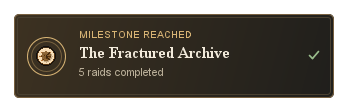
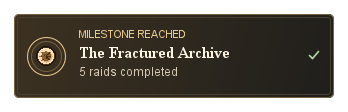
Block overlay click-through and improve text readability

Changed region(s): [[0.2299, 0.2679, 0.546, 0.3482], [0.2299, 0.5893, 0.5172, 0.6964], [0.1149, 0.3214, 0.1437, 0.3482]]

diff --git a/src/test/java/com/grindstone/overlay/ProgressOverlayMouseListenerTest.java b/src/test/java/com/grindstone/overlay/ProgressOverlayMouseListenerTest.java
@@ -1,0 +1,96 @@
+package com.grindstone.overlay;
+
+import com.grindstone.config.GrindstoneConfig;
+import com.grindstone.repository.RepeatSchedule;
+import com.grindstone.ui.Icon;
+import java.awt.Canvas;
+import java.awt.Dimension;
+import java.awt.Graphics2D;
+import java.awt.Rectangle;
+import java.awt.event.InputEvent;
+import java.awt.event.MouseEvent;
+import java.awt.image.BufferedImage;
+import java.util.List;
+import org.junit.Test;
+import static org.junit.Assert.assertFalse;
+import static org.junit.Assert.assertTrue;
+
+/**
+ * @author Ayman Yassen
+ * @see <a href="https://discord.gg/l.e.g.e.n.d.a.r.y">Discord</a>
+ * @since 11/11/2026
+ */
+public class ProgressOverlayMouseListenerTest {
+    private final Canvas canvas = new Canvas();
+    private final GrindstoneProgressOverlay overlay = new GrindstoneProgressOverlay(new GrindstoneConfig() {
+        @Override
+        public boolean progressOverlayEnabled() {
+            return true;
+        }
+    });
+    private final ProgressOverlayMouseListener listener = new ProgressOverlayMouseListener(overlay);
+
+    private void showOverlay() {
+        overlay.update(List.of(new ProgressOverlayEntry("Amoxliatl", RepeatSchedule.DAILY, 0, 100, false, true, true, Icon.BOSSING.getImage())), 720);
+        Graphics2D graphics = new BufferedImage(300, 300, BufferedImage.TYPE_INT_ARGB).createGraphics();
+        Dimension size;
+        try {
+            size = overlay.render(graphics);
+        } finally {
+            graphics.dispose();
+        }
+        overlay.setBounds(new Rectangle(50, 50, size.width, size.height));
+        overlay.endFrame();
+        listener.setActive(true);
+    }
+
+    private MouseEvent event(int type, int x, int y, int button, boolean alt) {
+        return new MouseEvent(canvas, type, 1, alt ? InputEvent.ALT_DOWN_MASK : 0, x, y, 1, false, button);
+    }
+
+    @Test
+    public void blocksClicksAndCapturedGesturesForEachMouseButton() {
+        showOverlay();
+        for (int button : new int[]{MouseEvent.BUTTON1, MouseEvent.BUTTON2, MouseEvent.BUTTON3}) {
+            assertTrue(listener.mousePressed(event(MouseEvent.MOUSE_PRESSED, 60, 60, button, false)).isConsumed());
+            assertTrue(listener.mouseDragged(event(MouseEvent.MOUSE_DRAGGED, 400, 400, MouseEvent.NOBUTTON, false)).isConsumed());
+            assertTrue(listener.mouseReleased(event(MouseEvent.MOUSE_RELEASED, 400, 400, button, false)).isConsumed());
+            assertTrue(listener.mouseClicked(event(MouseEvent.MOUSE_CLICKED, 400, 400, button, false)).isConsumed());
+            assertFalse(listener.mousePressed(event(MouseEvent.MOUSE_PRESSED, 400, 400, button, false)).isConsumed());
+            assertFalse(listener.mouseReleased(event(MouseEvent.MOUSE_RELEASED, 400, 400, button, false)).isConsumed());
+        }
+    }
+
+    @Test
+    public void allowsRuneLiteAltDragging() {
+        showOverlay();
+        assertFalse(listener.mousePressed(event(MouseEvent.MOUSE_PRESSED, 60, 60, MouseEvent.BUTTON1, true)).isConsumed());
+        assertFalse(listener.mouseDragged(event(MouseEvent.MOUSE_DRAGGED, 80, 80, MouseEvent.NOBUTTON, true)).isConsumed());
+        assertFalse(listener.mouseReleased(event(MouseEvent.MOUSE_RELEASED, 80, 80, MouseEvent.BUTTON1, true)).isConsumed());
+        assertFalse(listener.mouseClicked(event(MouseEvent.MOUSE_CLICKED, 80, 80, MouseEvent.BUTTON1, true)).isConsumed());
+    }
+
+    @Test
+    public void ignoresHiddenEmptyAndClearedOverlays() {
+        showOverlay();
+        overlay.endFrame();
+        assertFalse(listener.mousePressed(event(MouseEvent.MOUSE_PRESSED, 60, 60, MouseEvent.BUTTON1, false)).isConsumed());
+        showOverlay();
+        overlay.update(List.of(), 720);
+        assertFalse(listener.mousePressed(event(MouseEvent.MOUSE_PRESSED, 60, 60, MouseEvent.BUTTON1, false)).isConsumed());
+        showOverlay();
+        overlay.clear();
+        assertFalse(listener.mousePressed(event(MouseEvent.MOUSE_PRESSED, 60, 60, MouseEvent.BUTTON1, false)).isConsumed());
+    }
+
+    @Test
+    public void stoppingReleasesCapturedInputAndRestartingStartsFresh() {
+        showOverlay();
+        assertTrue(listener.mousePressed(event(MouseEvent.MOUSE_PRESSED, 60, 60, MouseEvent.BUTTON1, false)).isConsumed());
+        listener.setActive(false);
+        assertFalse(listener.mouseReleased(event(MouseEvent.MOUSE_RELEASED, 60, 60, MouseEvent.BUTTON1, false)).isConsumed());
+        assertFalse(listener.mouseClicked(event(MouseEvent.MOUSE_CLICKED, 60, 60, MouseEvent.BUTTON1, false)).isConsumed());
+        listener.setActive(true);
+        assertFalse(listener.mouseDragged(event(MouseEvent.MOUSE_DRAGGED, 400, 400, MouseEvent.NOBUTTON, false)).isConsumed());
+    }
+}

diff --git a/src/main/java/com/grindstone/GrindstonePlugin.java b/src/main/java/com/grindstone/GrindstonePlugin.java
@@ -3,6 +3,7 @@ package com.grindstone;
 import com.google.gson.JsonObject;
 import com.google.inject.Provides;
 import com.grindstone.config.GrindstoneConfig;
+import com.grindstone.overlay.ProgressOverlayMouseListener;
 import com.grindstone.content.collectionlog.CollectionLogPages;
 import com.grindstone.content.collectionlog.CollectionLogHistory;
 import com.grindstone.content.combatachievement.CombatAchievementData;
@@ -90,10 +91,12 @@ import net.runelite.client.eventbus.Subscribe;
 import net.runelite.client.events.ClientShutdown;
 import net.runelite.client.events.ConfigChanged;
 import net.runelite.client.game.ItemManager;
+import net.runelite.client.input.MouseManager;
 import net.runelite.client.plugins.Plugin;
 import net.runelite.client.plugins.PluginDescriptor;
 import net.runelite.client.task.Schedule;
 import net.runelite.client.ui.ClientToolbar;
+import net.runelite.client.ui.DrawManager;
 import net.runelite.client.ui.NavigationButton;
 import net.runelite.client.ui.overlay.OverlayManager;
 import net.runelite.client.util.ImageUtil;
@@ -143,6 +146,13 @@ public class GrindstonePlugin extends Plugin {
     private GrindstoneProgressOverlay progressOverlay;
     @Inject
     private OverlayManager overlayManager;
+    @Inject
+    private MouseManager mouseManager;
+    @Inject
+    private ProgressOverlayMouseListener progressOverlayMouseListener;
+    @Inject
+    private DrawManager drawManager;
+    private final Runnable finishOverlayFrame = () -> progressOverlay.endFrame();
 
     private NavigationButton navigationButton;
     private GrindstonePanel panel;
@@ -170,6 +180,9 @@ public class GrindstonePlugin extends Plugin {
         completionNotifications.stop();
         overlayManager.add(completionOverlay);
         overlayManager.add(progressOverlay);
+        progressOverlayMouseListener.setActive(true);
+        mouseManager.registerMouseListener(progressOverlayMouseListener);
+        drawManager.registerEveryFrameListener(finishOverlayFrame);
         loadGeneration.incrementAndGet();
         sessionProfiles.clear();
         persistence.configure(this::getPluginDirectory);
@@ -193,6 +206,9 @@ public class GrindstonePlugin extends Plugin {
     @Override
     protected void shutDown() {
         running = false;
+        progressOverlayMouseListener.setActive(false);
+        mouseManager.unregisterMouseListener(progressOverlayMouseListener);
+        drawManager.unregisterEveryFrameListener(finishOverlayFrame);
         collectionCaptureDirty = false;
         overlayManager.remove(completionOverlay);
         overlayManager.remove(progressOverlay);

diff --git a/src/main/java/com/grindstone/overlay/ProgressOverlayMouseListener.java b/src/main/java/com/grindstone/overlay/ProgressOverlayMouseListener.java
@@ -1,0 +1,70 @@
+package com.grindstone.overlay;
+
+import java.awt.event.MouseEvent;
+import javax.inject.Inject;
+import javax.inject.Singleton;
+import net.runelite.client.input.MouseAdapter;
+
+/**
+ * @author Ayman Yassen
+ * @see <a href="https://discord.gg/l.e.g.e.n.d.a.r.y">Discord</a>
+ * @since 11/11/2026
+ */
+@Singleton
+public final class ProgressOverlayMouseListener extends MouseAdapter {
+    private final GrindstoneProgressOverlay overlay;
+    private volatile boolean active;
+    private int blockedButtons;
+    private int blockedClicks;
+
+    @Inject
+    public ProgressOverlayMouseListener(GrindstoneProgressOverlay overlay) {
+        this.overlay = overlay;
+    }
+
+    public void setActive(boolean active) {
+        this.active = active;
+        blockedButtons = 0;
+        blockedClicks = 0;
+    }
+
+    @Override
+    public MouseEvent mousePressed(MouseEvent event) {
+        int button = 1 << event.getButton();
+        blockedClicks &= ~button;
+        if (active && !event.isAltDown() && overlay.isMouseOver(event.getPoint())) {
+            blockedButtons |= button;
+            blockedClicks |= button;
+            event.consume();
+        }
+        return event;
+    }
+
+    @Override
+    public MouseEvent mouseReleased(MouseEvent event) {
+        int button = 1 << event.getButton();
+        if (active && (blockedButtons & button) != 0) {
+            event.consume();
+        }
+        blockedButtons &= ~button;
+        return event;
+    }
+
+    @Override
+    public MouseEvent mouseClicked(MouseEvent event) {
+        int button = 1 << event.getButton();
+        if (active && ((blockedClicks & button) != 0 || !event.isAltDown() && overlay.isMouseOver(event.getPoint()))) {
+            event.consume();
+        }
+        blockedClicks &= ~button;
+        return event;
+    }
+
+    @Override
+    public MouseEvent mouseDragged(MouseEvent event) {
+        if (active && blockedButtons != 0) {
+            event.consume();
+        }
+        return event;
+    }
+}

diff --git a/src/main/java/com/grindstone/overlay/OverlayStyle.java b/src/main/java/com/grindstone/overlay/OverlayStyle.java
@@ -28,16 +28,16 @@ public final class OverlayStyle {
     public static final Color TRACK = new Color(47, 58, 71);
     public static final Color SURFACE = new Color(255, 255, 255, 7);
     public static final Font HEADING_FONT = new Font(Font.SANS_SERIF, Font.BOLD, 13);
-    public static final Font TITLE_FONT = new Font(Font.SANS_SERIF, Font.BOLD, 12);
-    public static final Font BODY_FONT = new Font(Font.SANS_SERIF, Font.PLAIN, 11);
-    public static final Font SMALL_FONT = new Font(Font.SANS_SERIF, Font.PLAIN, 10);
+    public static final Font TITLE_FONT = new Font(Font.SANS_SERIF, Font.BOLD, 13);
+    public static final Font BODY_FONT = new Font(Font.SANS_SERIF, Font.PLAIN, 12);
+    public static final Font SMALL_FONT = new Font(Font.SANS_SERIF, Font.PLAIN, 11);
     public static final Font METRIC_FONT = new Font(Font.SANS_SERIF, Font.PLAIN, 18);
     public static final Font DISPLAY_FONT = new Font(Font.SANS_SERIF, Font.BOLD, 21);
     public static final Font GUILD_HEADING_FONT = new Font(Font.SERIF, Font.BOLD, 14);
     public static final Font GUILD_TITLE_FONT = new Font(Font.SERIF, Font.BOLD, 16);
     private static final Palette CLASSIC = new Palette(GOLD, GREEN, TEXT, MUTED, BACKGROUND, SURFACE, TRACK, BORDER);
     private static final Palette SLATE = new Palette(new Color(0x79b7cf), new Color(0x81c8b3), new Color(0xedf2f8), new Color(0xa2aebb), new Color(0x1e252f), new Color(0x2a323e), new Color(0x414b59), new Color(0x414b58));
-    private static final Palette GUILD = new Palette(new Color(0xd7b374), new Color(0x9abd8c), new Color(0xf2eadb), new Color(0xb8ad97), new Color(0x201f1c), new Color(0x363025), new Color(0x39372f), new Color(0x786141));
+    private static final Palette GUILD = new Palette(new Color(0xe7c78e), new Color(0xb0d4a2), new Color(0xfff5e5), new Color(0xd8cbb5), new Color(0x201f1c), new Color(0x363025), new Color(0x39372f), new Color(0x786141));
 
     private OverlayStyle() {
     }

diff --git a/src/main/java/com/grindstone/overlay/GrindstoneProgressOverlay.java b/src/main/java/com/grindstone/overlay/GrindstoneProgressOverlay.java
@@ -10,6 +10,7 @@ import java.awt.Color;
 import java.awt.Dimension;
 import java.awt.Font;
 import java.awt.Graphics2D;
+import java.awt.Point;
 import java.awt.geom.AffineTransform;
 import java.awt.image.BufferedImage;
 import java.util.ArrayList;
@@ -42,6 +43,8 @@ public final class GrindstoneProgressOverlay extends Overlay {
     private final GrindstoneConfig config;
     private final LongSupplier clock;
     private volatile Snapshot snapshot;
+    private volatile boolean rendered;
+    private boolean renderedThisFrame;
 
     @Inject
     public GrindstoneProgressOverlay(GrindstoneConfig config) {
@@ -59,6 +62,18 @@ public final class GrindstoneProgressOverlay extends Overlay {
 
     public void clear() {
         snapshot = null;
+        rendered = false;
+        renderedThisFrame = false;
+    }
+
+    public void endFrame() {
+        rendered = renderedThisFrame;
+        renderedThisFrame = false;
+    }
+
+    public boolean isMouseOver(Point point) {
+        Snapshot current = snapshot;
+        return rendered && config.progressOverlayEnabled() && current != null && !current.entries.isEmpty() && getBounds().contains(point);
     }
 
     public void update(List<ProgressOverlayEntry> entries, int canvasHeight) {
@@ -149,6 +164,7 @@ public final class GrindstoneProgressOverlay extends Overlay {
             } finally {
                 card.dispose();
             }
+            renderedThisFrame = true;
             return new Dimension(current.width, cache.height);
         }
         int imageVersion = current.imageVersion.get();
@@ -172,6 +188,7 @@ public final class GrindstoneProgressOverlay extends Overlay {
             cache.renderedCountdown = cache.countdown;
         }
         graphics.drawImage(cache.image, cache.inverseScale, null);
+        renderedThisFrame = true;
         return new Dimension(current.width, cache.height);
     }
 
